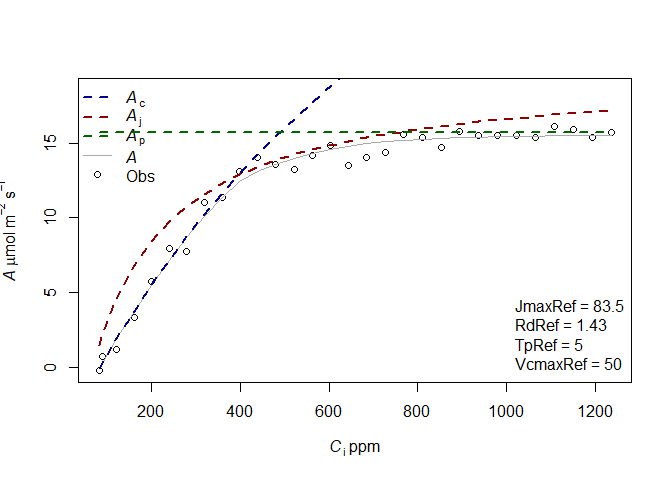
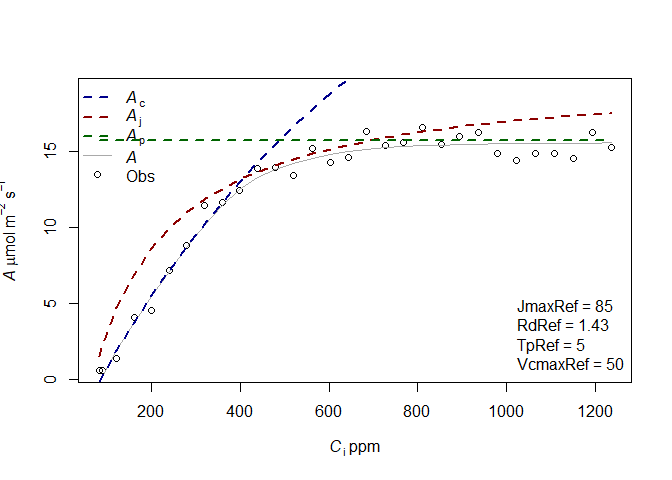
Vignettes update

diff --git a/vignettes/Aci_fitting.md b/vignettes/Aci_fitting.md
@@ -61,14 +61,14 @@ to TpRef so the TPU limitation is not considered when fitting the curve.
 
     ## $par
     ##   JmaxRef  VcmaxRef     RdRef 
-    ## 79.615810 51.141824  1.438314 
+    ## 78.141096 49.423895  1.073605 
     ## 
     ## $value
-    ## [1] 11.29944
+    ## [1] 22.96381
     ## 
     ## $counts
     ## function gradient 
-    ##      152       NA 
+    ##      126       NA 
     ## 
     ## $convergence
     ## [1] 0
@@ -76,7 +76,7 @@ to TpRef so the TPU limitation is not considered when fitting the curve.
     ## $message
     ## NULL
     ## 
-    ## [1] "sd 0.613716524221981"
+    ## [1] "sd 0.874905983238913"
     ## Length  Class   Mode 
     ##      1   mle2     S4
 
@@ -89,14 +89,14 @@ In a second example we now also fit TpRef
 
     ## $par
     ##   JmaxRef  VcmaxRef     RdRef     TpRef 
-    ## 83.072886 52.178676  1.612542  5.134247 
+    ## 85.567121 50.798031  1.374205  4.949683 
     ## 
     ## $value
-    ## [1] 9.224217
+    ## [1] 12.71768
     ## 
     ## $counts
     ## function gradient 
-    ##      397       NA 
+    ##      487       NA 
     ## 
     ## $convergence
     ## [1] 0
@@ -104,7 +104,7 @@ In a second example we now also fit TpRef
     ## $message
     ## NULL
     ## 
-    ## [1] "sd 0.554503279961213"
+    ## [1] "sd 0.651093369135607"
     ## Length  Class   Mode 
     ##      1   mle2     S4
 
@@ -123,11 +123,11 @@ info).
     confint(fitting2[[2]])
 
     ##               2.5 %     97.5 %
-    ## sigma     0.4392483  0.7310047
-    ## JmaxRef  78.2845065 88.2279846
-    ## VcmaxRef 47.4256228 57.9321547
-    ## TpRef     4.8644789  5.4917113
-    ## RdRef     0.9220098  2.3343784
+    ## sigma     0.5157620  0.8583409
+    ## JmaxRef  79.7793526 92.3447196
+    ## VcmaxRef 45.5682094 57.3108320
+    ## TpRef     4.6635868  5.2507344
+    ## RdRef     0.5737043  2.2183785
 
 It is possible to compare the AIC of the two models using the base
 function AIC. The lower AIC corresponds to the best model, showing that
@@ -136,11 +136,11 @@ the fit of the model.
 
     AIC(fitting1[[2]])
 
-    ## [1] 63.84298
+    ## [1] 85.11798
 
     AIC(fitting2[[2]])
 
-    ## [1] 59.7553
+    ## [1] 69.39018
 
 It is also possible to calculate the interval of confidence and
 prediction of the Aci curve from the outputs of the fitting.
